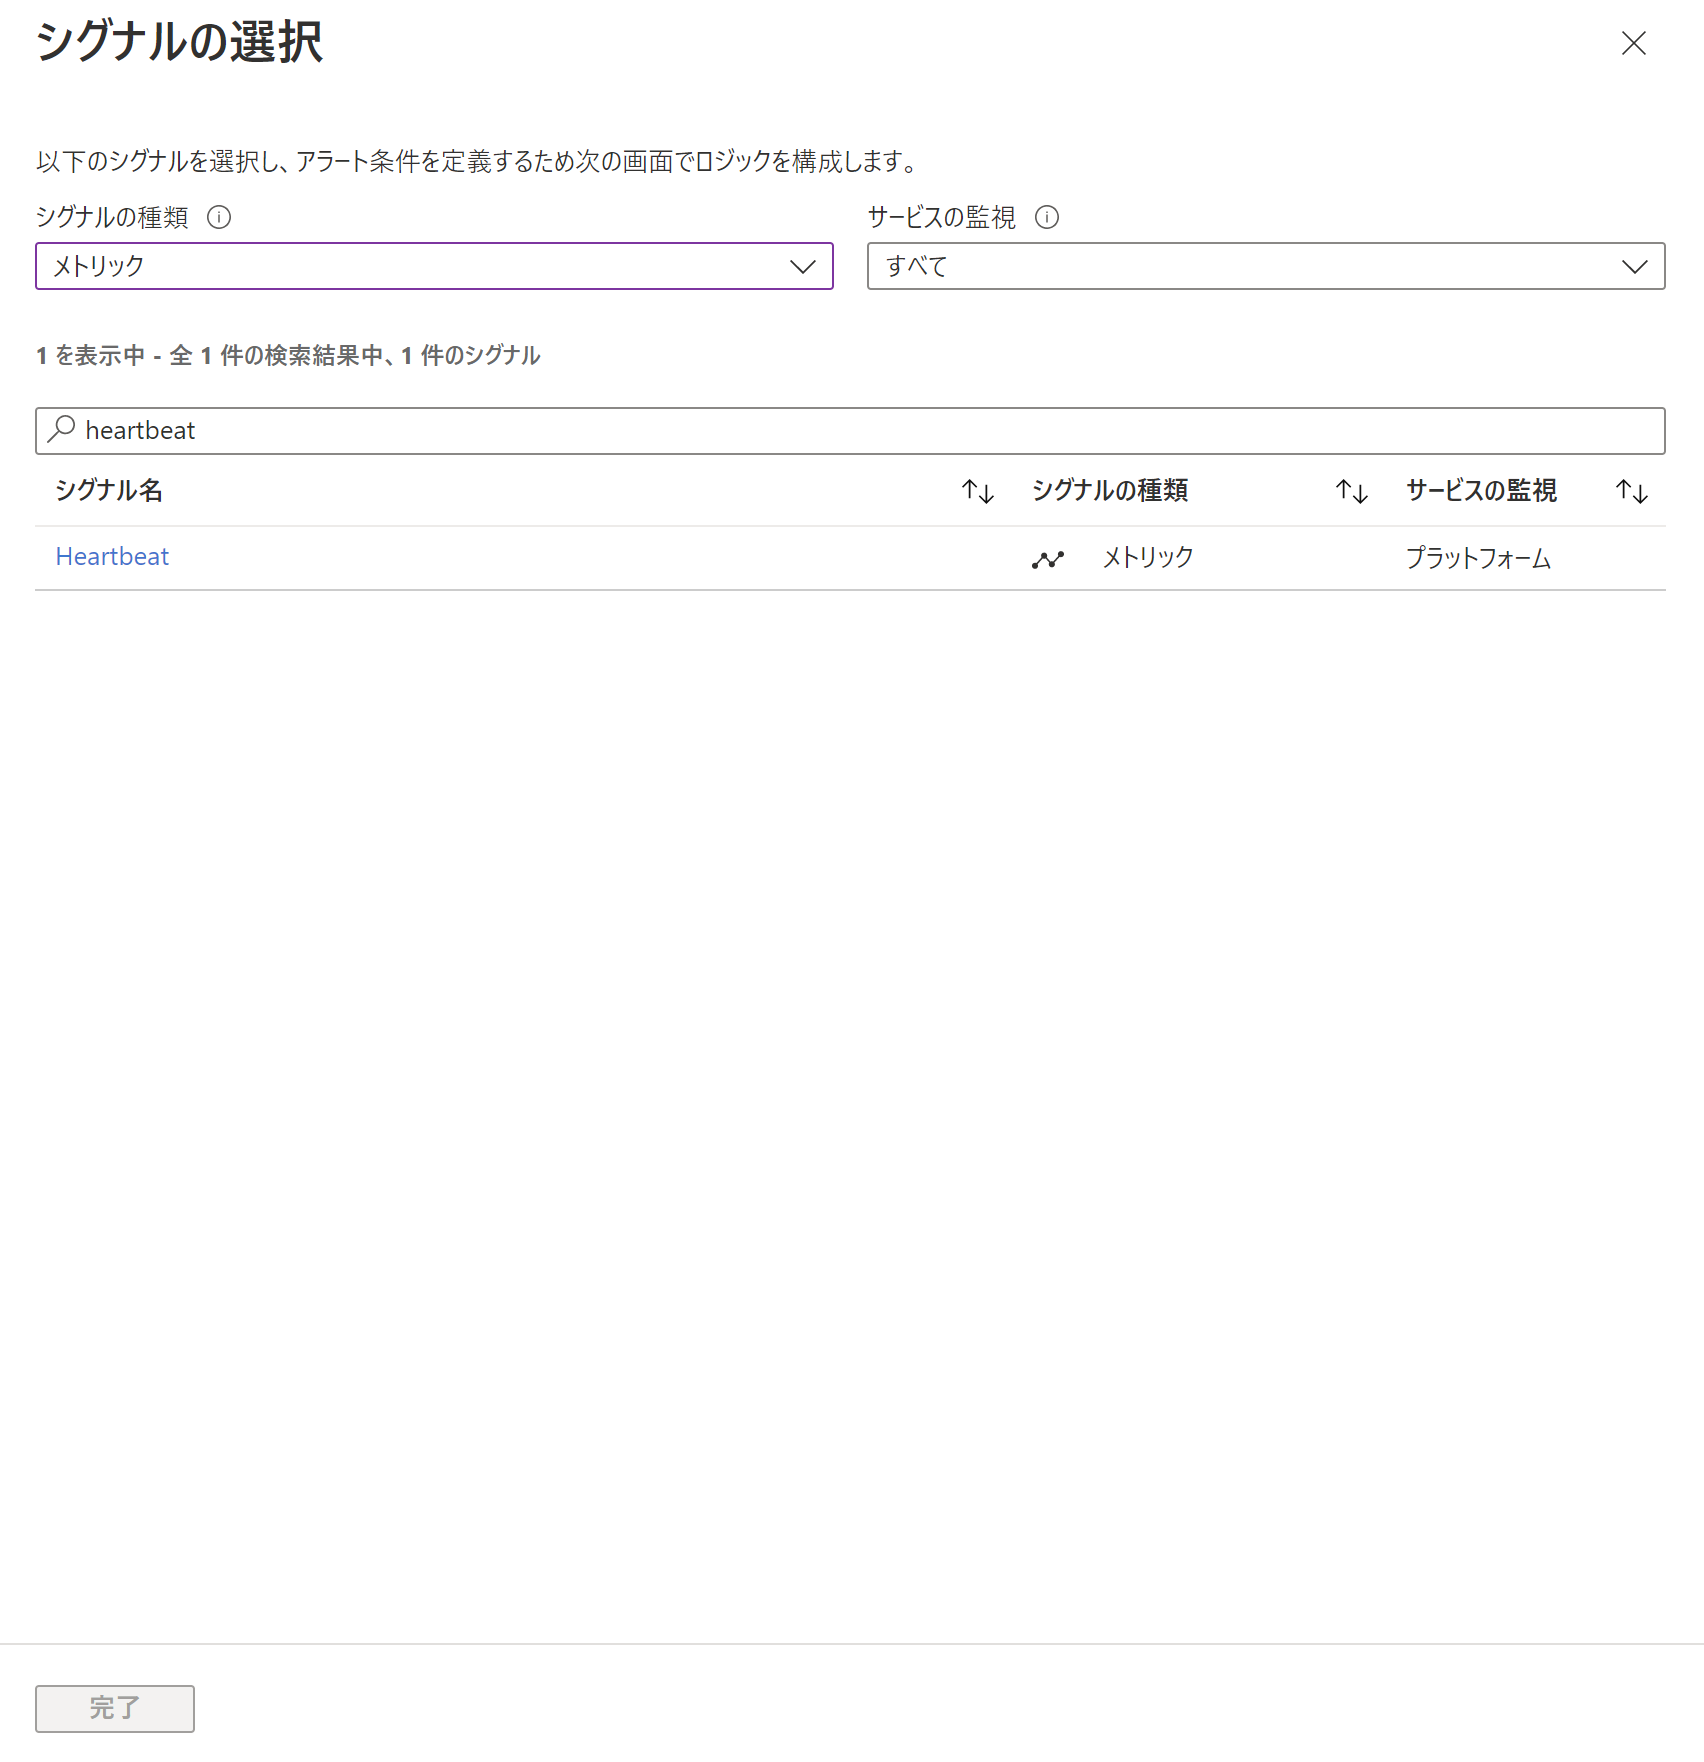
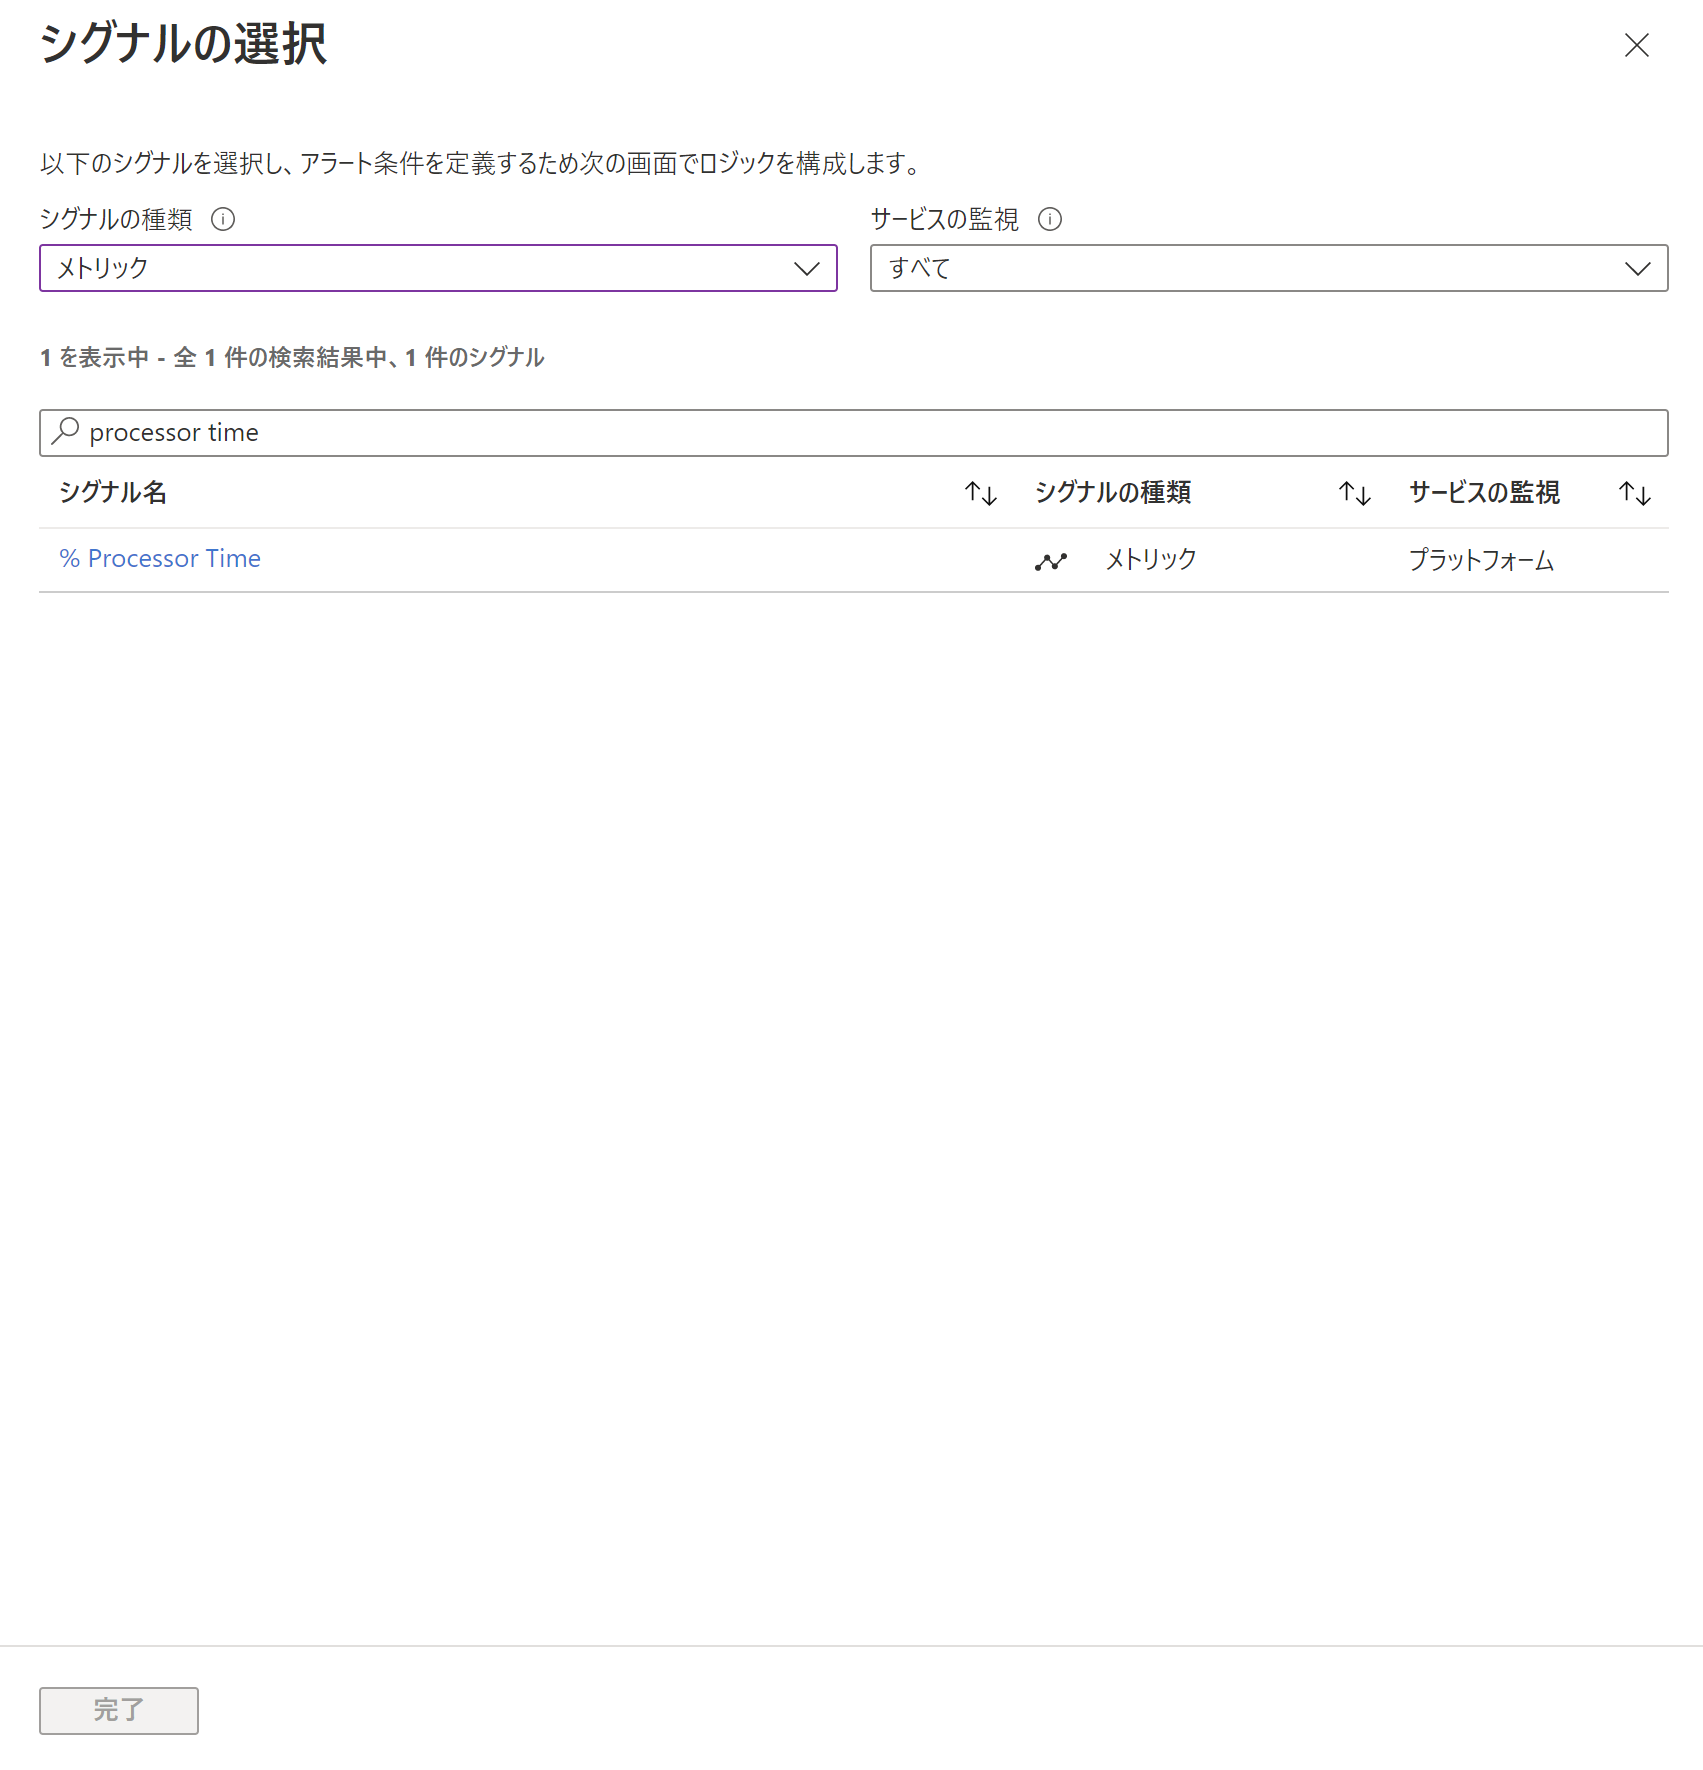
Mod ex6

diff --git a/docs/handout/exercise06.md b/docs/handout/exercise06.md
@@ -37,10 +37,10 @@
             * ディメンション値： (作成済の仮想マシン)
         * アラートロジック
             * しきい値： `Static`
-            * 集計の種類： `合計`
-            * 演算子： `次の値以下`
+            * 集計の種類： `平均`
+            * 演算子： `次の値より大きい`
             * 単位： `カウント`
-            * しきい値： `0`
+            * しきい値： `60`
             * 確認する間隔： `1分`
             * 次の時間分の過去データを参照： `5分`
 
@@ -67,6 +67,8 @@
             * 名前： (任意)
 
             * 電子メール： `有効` にして `電子メール` に送信先を設定
+
+            (※) 正しくメール設定できていればアクショングループへ登録された旨のメールが飛ぶ
 
             ![](images/ex06-0107-alert.png)
 
@@ -96,8 +98,17 @@
 
 ## アラートの動作確認
 
-1. 仮想マシンを停止
+1. 仮想マシンにRDP接続して PowerShell で以下のコマンドを実行
+
+        while ($i -ne 0) { echo $i; $i++ }
 
     ![](images/ex06-0201-alert.png)
 
 1. アラートメールが飛んでくることを確認
+
+    ![](images/ex06-0202-alert.png)
+
+1. **メールが確認できたら仮想マシンで実行している PowerShell をそのまま閉じて止める**
+
+    ![](images/ex06-0203-alert.png)
+
